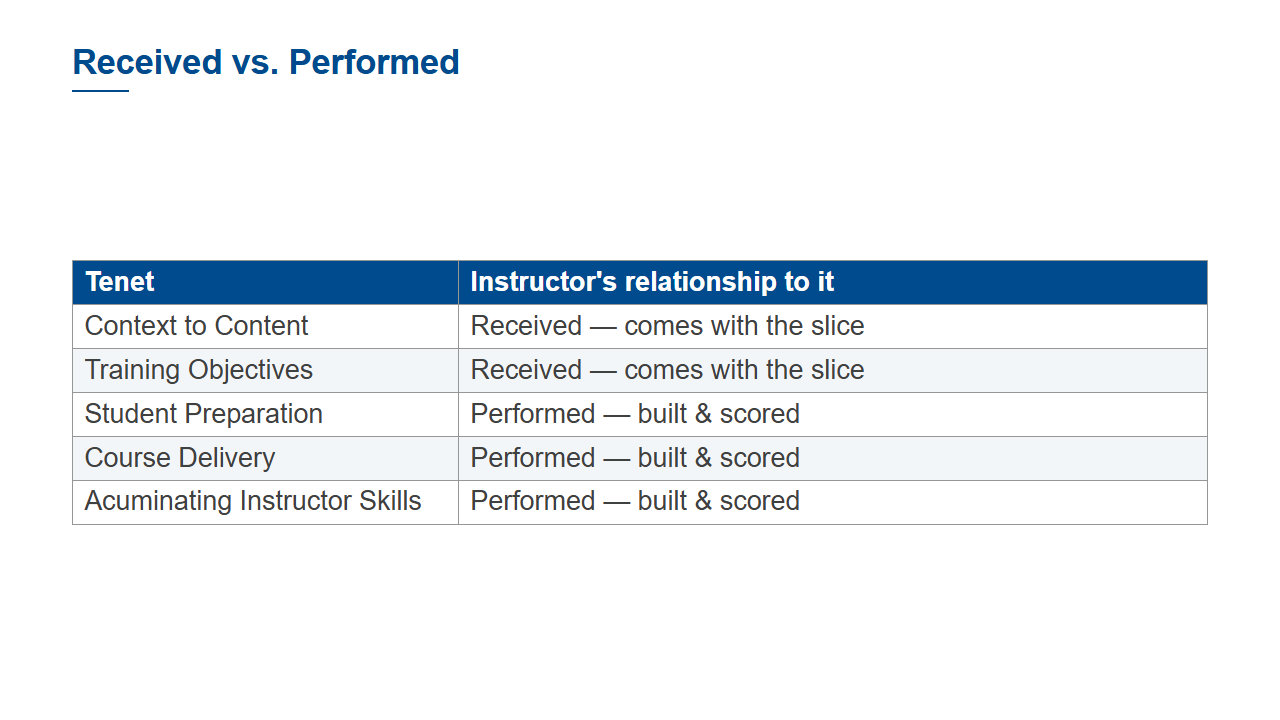
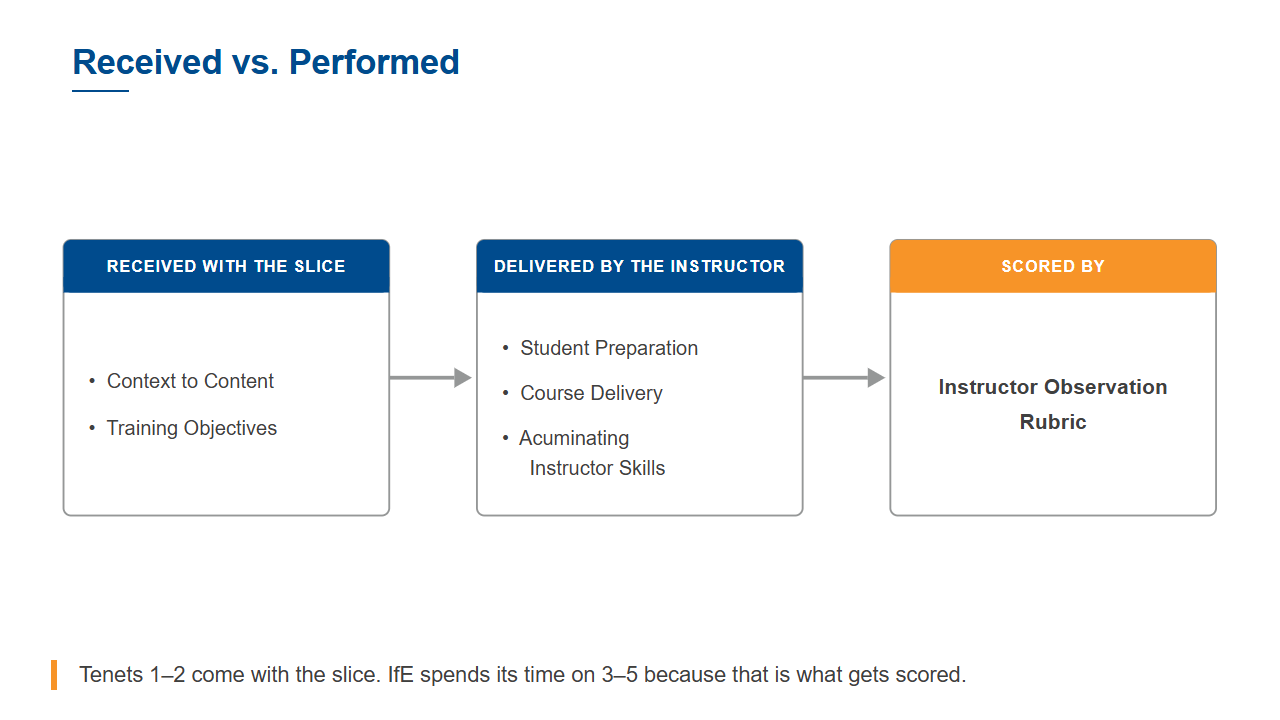
Add the Stage 3 visual-concept check; rebuild ife-006 as a diagram
Course Porting Pipeline.md: before a no-source-figure concept defaults
onto a table or text-list, Stage 3 must now ask whether it describes a
relationship, hierarchy, process, or framework that could be drawn
instead -- proposing a diagram where one holds up, saying so explicitly
when it genuinely doesn't. Mirrored as a fourth Template-fit branch on
the Part 4 pre-send checklist so a skipped check is independently
catchable at render time, same pattern as the existing geometry check.

ife-006 ("Received vs. Performed") is the check's first real case and
its first real miss: a second comparison table where the concept is
actually a received -> delivered -> scored flow. Rebuilt as an original
house diagram (provenance: original, no source figure exists), then
rebuilt a second time same day for execution -- one shared box template
used three times (uniform size, shared baseline, one color used once
and meaningfully for the graded stage) instead of three unrelated
styles, left-aligned bulleted lists, and real breathing room under the
takeaway line. Middle stage relabelled "Delivered by the instructor"
(was "Performed") to drop an unintended stage-actor connotation.

Curriculum -- IfE.md's primitive record now carries both rebuild passes
honestly rather than only the first. Verified by screenshot, not just
render-check pass/fail, at each pass; full 7-slide render-check clean.

Claude-Session: https://claude.ai/code/session_01VE1kiE4pLMYWBF3r1NGHLM

diff --git a/10 - Courses/IfE - Instructing for Emerson/Presentation/build/slides/ife-006.html b/10 - Courses/IfE - Instructing for Emerson/Presentation/build/slides/ife-006.html
@@ -5,37 +5,71 @@
 <meta name="viewport" content="width=device-width, initial-scale=1">
 <title>IfE &middot; Day 1 &mdash; Received vs. Performed</title>
 <link rel="stylesheet" href="../css/emerson-workbench.css">
-<link rel="stylesheet" href="../css/gallery.css">
 <script src="../assets/slides.js" defer></script>
 </head>
 <body class="ew-deck">
 <main class="ew-stage">
   <!-- Day 1, concept 2 [understand]. Concept: tenets 1-2 are inputs the
        instructor receives with the assigned slice; tenets 3-5 are what the
-       instructor performs and is scored on. Source: same vault note, its
-       own "The through-line" section. provenance: original.
-       Role tag is "contrast" (a genuine this-vs-that split); built on
-       production .slide--tmpl-table — CONCEPT_ROLES.contrast.treatment in
-       instructional-design.js already names "a comparison table" as a
-       valid option, this is its first real use. Promoted from the
-       origination pilot (PILOT-NOTES.md finding 2), unchanged in content. -->
-  <article class="slide slide--tmpl-table" data-slide="6" data-deck="ife">
+       instructor delivers; the Rubric scores that. provenance: original.
+       REBUILT 2026-09-09 as an original flow diagram (visual-concept
+       check, Course Porting Pipeline.md) — first pass approved on concept,
+       rejected on execution (inconsistent box sizes, broken baseline,
+       three unrelated fill styles, centered list text, no bullets,
+       cramped takeaway). This is the corrected pass: one shared box
+       template (same size, same white fill, same grey border, same
+       header-bar structure) reused three times, with color used once,
+       meaningfully — the orange header on the third box is the only
+       color signal in the diagram, marking it as the graded stage.
+       Reuses .slide--tmpl-graph's frame (title / figure / takeaway) as
+       the closest existing "one diagram + one-line takeaway" container;
+       this is a flow diagram, not a data graph — a structural reuse, not
+       a semantic claim. Row 4 (.tmpl-source) is unused here, so the
+       takeaway gets an explicit bottom margin below (it would otherwise
+       sit flush against the card edge with nothing to absorb the space
+       .tmpl-source normally would). -->
+  <article class="slide slide--tmpl-graph" data-slide="6" data-deck="ife">
     <h1 class="slide-title">Received vs. Performed</h1>
-    <div class="tmpl-wrap" style="display:flex; flex-direction:column; justify-content:center">
-      <table class="tmpl-table" data-ref="ife-received-vs-performed" style="font-size:2.1cqw; table-layout:fixed">
-        <colgroup><col style="width:34%"><col style="width:66%"></colgroup>
-        <thead>
-          <tr><th>Tenet</th><th>Instructor's relationship to it</th></tr>
-        </thead>
-        <tbody>
-          <tr><td>Context to Content</td><td>Received &mdash; comes with the slice</td></tr>
-          <tr><td>Training Objectives</td><td>Received &mdash; comes with the slice</td></tr>
-          <tr><td>Student Preparation</td><td>Performed &mdash; built &amp; scored</td></tr>
-          <tr><td>Course Delivery</td><td>Performed &mdash; built &amp; scored</td></tr>
-          <tr><td>Acuminating Instructor Skills</td><td>Performed &mdash; built &amp; scored</td></tr>
-        </tbody>
-      </table>
-    </div>
+    <figure class="tmpl-plot">
+      <svg viewBox="0 0 940 300" preserveAspectRatio="xMidYMid meet" role="img" aria-label="Flow diagram: Context to Content and Training Objectives are received with the slice, flowing into Student Preparation, Course Delivery, and Acuminating Instructor Skills, which the instructor delivers, flowing into the Instructor Observation Rubric, which scores it.">
+        <g font-family="Arial, Helvetica, sans-serif">
+          <!-- Box 1: Received -->
+          <rect x="10" y="40" width="260" height="220" rx="6" fill="#fff" stroke="var(--emerson-grey)" stroke-width="1.5"/>
+          <rect x="10" y="40" width="260" height="42" rx="6" fill="var(--emerson-blue)"/>
+          <rect x="10" y="70" width="260" height="12" fill="var(--emerson-blue)"/>
+          <text x="140" y="66" text-anchor="middle" font-size="13" font-weight="700" letter-spacing="0.7" fill="#fff">RECEIVED WITH THE SLICE</text>
+          <text x="30" y="158" font-size="16" fill="var(--emerson-charcoal)">&#8226;&#160;&#160;Context to Content</text>
+          <text x="30" y="196" font-size="16" fill="var(--emerson-charcoal)">&#8226;&#160;&#160;Training Objectives</text>
+
+          <!-- Arrow 1 -->
+          <path d="M270 150 H322" stroke="var(--emerson-grey)" stroke-width="3" fill="none"/>
+          <polygon points="322,142 336,150 322,158" fill="var(--emerson-grey)"/>
+
+          <!-- Box 2: Delivered -->
+          <rect x="340" y="40" width="260" height="220" rx="6" fill="#fff" stroke="var(--emerson-grey)" stroke-width="1.5"/>
+          <rect x="340" y="40" width="260" height="42" rx="6" fill="var(--emerson-blue)"/>
+          <rect x="340" y="70" width="260" height="12" fill="var(--emerson-blue)"/>
+          <text x="470" y="66" text-anchor="middle" font-size="13" font-weight="700" letter-spacing="0.7" fill="#fff">DELIVERED BY THE INSTRUCTOR</text>
+          <text x="360" y="132" font-size="16" fill="var(--emerson-charcoal)">&#8226;&#160;&#160;Student Preparation</text>
+          <text x="360" y="168" font-size="16" fill="var(--emerson-charcoal)">&#8226;&#160;&#160;Course Delivery</text>
+          <text x="360" y="204" font-size="16" fill="var(--emerson-charcoal)">&#8226;&#160;&#160;Acuminating</text>
+          <text x="382" y="228" font-size="16" fill="var(--emerson-charcoal)">Instructor Skills</text>
+
+          <!-- Arrow 2 -->
+          <path d="M600 150 H652" stroke="var(--emerson-grey)" stroke-width="3" fill="none"/>
+          <polygon points="652,142 666,150 652,158" fill="var(--emerson-grey)"/>
+
+          <!-- Box 3: Scored — the one meaningful color signal in the diagram -->
+          <rect x="670" y="40" width="260" height="220" rx="6" fill="#fff" stroke="var(--emerson-grey)" stroke-width="1.5"/>
+          <rect x="670" y="40" width="260" height="42" rx="6" fill="var(--emerson-orange)"/>
+          <rect x="670" y="70" width="260" height="12" fill="var(--emerson-orange)"/>
+          <text x="800" y="66" text-anchor="middle" font-size="13" font-weight="700" letter-spacing="0.7" fill="#fff">SCORED BY</text>
+          <text x="800" y="163" text-anchor="middle" font-size="17" font-weight="700" fill="var(--emerson-charcoal)">Instructor Observation</text>
+          <text x="800" y="191" text-anchor="middle" font-size="17" font-weight="700" fill="var(--emerson-charcoal)">Rubric</text>
+        </g>
+      </svg>
+    </figure>
+    <p class="tmpl-takeaway" style="margin-bottom:4.2cqh">Tenets 1&ndash;2 come with the slice. IfE spends its time on 3&ndash;5 because that is what gets scored.</p>
     <div class="slide-chrome"><span class="slide-chrome__copyright"></span><span class="slide-chrome__pageno">6</span><img class="slide-chrome__logo" src="../assets/brand/logo-emerson-corp-2c.png" alt="Emerson"></div>
   </article>
 </main>

diff --git a/00 - Project/Course Porting Pipeline.md b/00 - Project/Course Porting Pipeline.md
@@ -346,6 +346,19 @@ intro card's `stakes`; a missing formative `check` is noted (a first-class
 formative-check slide is a deferred Layer-2 change). A full re-fire also carries
 any open Stage-3 review flags for the module to resolve.
 
+**The visual-concept check** (added 2026-09-09, from the IfE Foundations
+review — `ife-006` was the miss that surfaced it): before a concept with no
+source figure defaults onto a table or text-list template, ask explicitly —
+does this concept describe a relationship, hierarchy, process, or framework
+between its parts that could be drawn, not just named or tabulated? If yes,
+propose an original diagram (house-designed, `provenance: original` where
+applicable) before falling back to a table. If the content is genuinely a
+flat set of separate facts with no natural visual shape, a table or short
+list is the correct, honest answer — say so explicitly rather than landing
+there by default either way. This is a propose-, not force-, rule: "no
+natural visual shape" stays a fully legitimate outcome, not a failure to
+find one. See Part 4 checklist item 4 for the render-time half of this check.
+
 **Ground rules:**
 
 - Re-cropping a deck image to its teaching subject, splitting a composite figure
@@ -390,8 +403,11 @@ in; the render confirms it rather than discovers it.
 4. **Template fit.** 2–4 things compared side by side → horizontal `figrow`
    (`.slide--tmpl-figrow`). A reference table plus the items it tabulates →
    table with the items in a row beneath it (`.has-lead`). One diagram with
-   parts to name → `.slide--tmpl-diagram`. Never a vertical stack of images in
-   an aside.
+   parts to name → `.slide--tmpl-diagram`. A relationship, process, or
+   framework with no source figure but a real drawable shape → an original
+   diagram, not a default table — reached only when the visual-concept check
+   above (Stage 3 composition) was actually asked, not skipped. Never a
+   vertical stack of images in an aside.
 5. **Both aspect ratios.** Render the slide standalone (4:3) **and** in the
    course shell (16:9, `?embed=1&visual=1`); check for collisions and clipping
    in each.

diff --git a/10 - Courses/IfE - Instructing for Emerson/Curriculum — IfE.md b/10 - Courses/IfE - Instructing for Emerson/Curriculum — IfE.md
@@ -69,9 +69,23 @@ before its own Phase 3.
 - id: prim.ife.orientation.five-tenets-framework.received-vs-performed
   competencyId: ife.orientation.five-tenets-framework
   status: exists
-  asset: inline-table (slide ife-006)
+  asset: inline-svg diagram (slide ife-006)
   provenance: original
-  redrawRecord: not applicable — provenance: original
+  redrawRecord: >
+    Original house diagram — no source figure exists (Steve's own
+    framework). Rebuilt 2026-09-09 from a comparison table: the Stage 3
+    visual-concept check (Course Porting Pipeline.md) found this concept
+    is a real input -> action -> assessment flow (received with the slice
+    -> delivered by the instructor -> scored by the Rubric), not a second
+    tenet-vs-tenet comparison, and a table was defaulted onto it the
+    first time without that question being asked. Execution rebuilt a
+    second time same day (Franz review: inconsistent box sizes, broken
+    baseline, three unrelated fill styles, centered list text, no
+    bullets, cramped takeaway) to one shared box template used three
+    times, color used once and meaningfully (orange marks the graded
+    stage). The middle stage's label was also corrected from "Performed"
+    to "Delivered by the instructor" — "performed" carried an unwanted
+    stage-actor connotation the concept didn't intend.
   variantTag: received-vs-performed
 ```
 
@@ -125,7 +139,8 @@ $ node "40 - Engine/render/render-check.mjs" --course "IfE - Instructing for Eme
   [ok]   ife-003.html   (facility & safety)
   [ok]   ife-004.html   (sign-in & housekeeping)
   [ok]   ife-005.html   (Five Tenets)
-  [ok]   ife-006.html   (Received vs. Performed)
+  [ok]   ife-006.html   (Received vs. Performed — rebuilt 2026-09-09 as an
+                          original flow diagram, see the primitive record above)
   [ok]   ife-007.html   (Check)
 RENDER: 7 slides rendered, 0 warn
 ```
